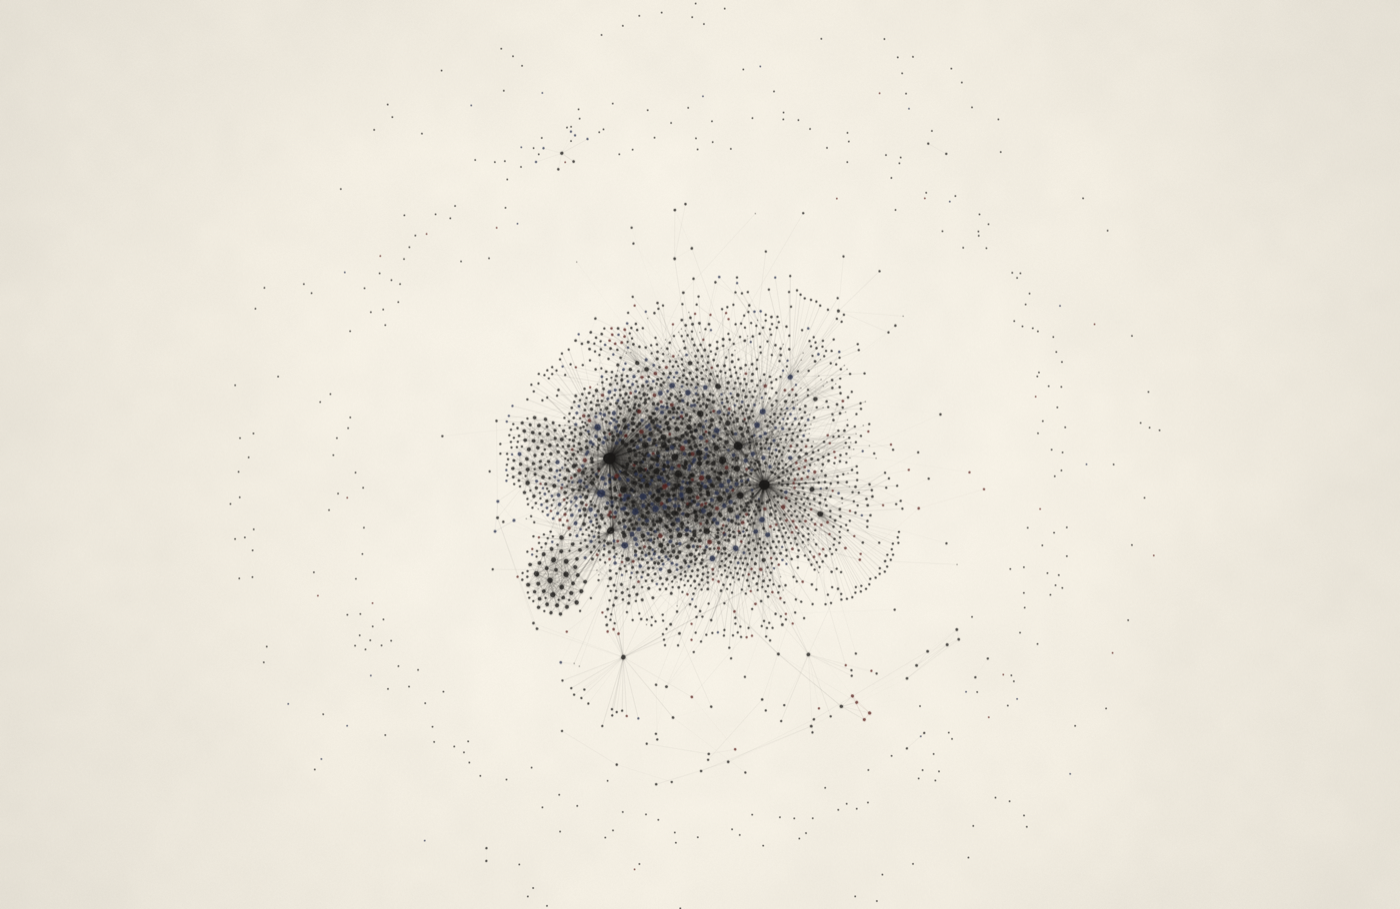
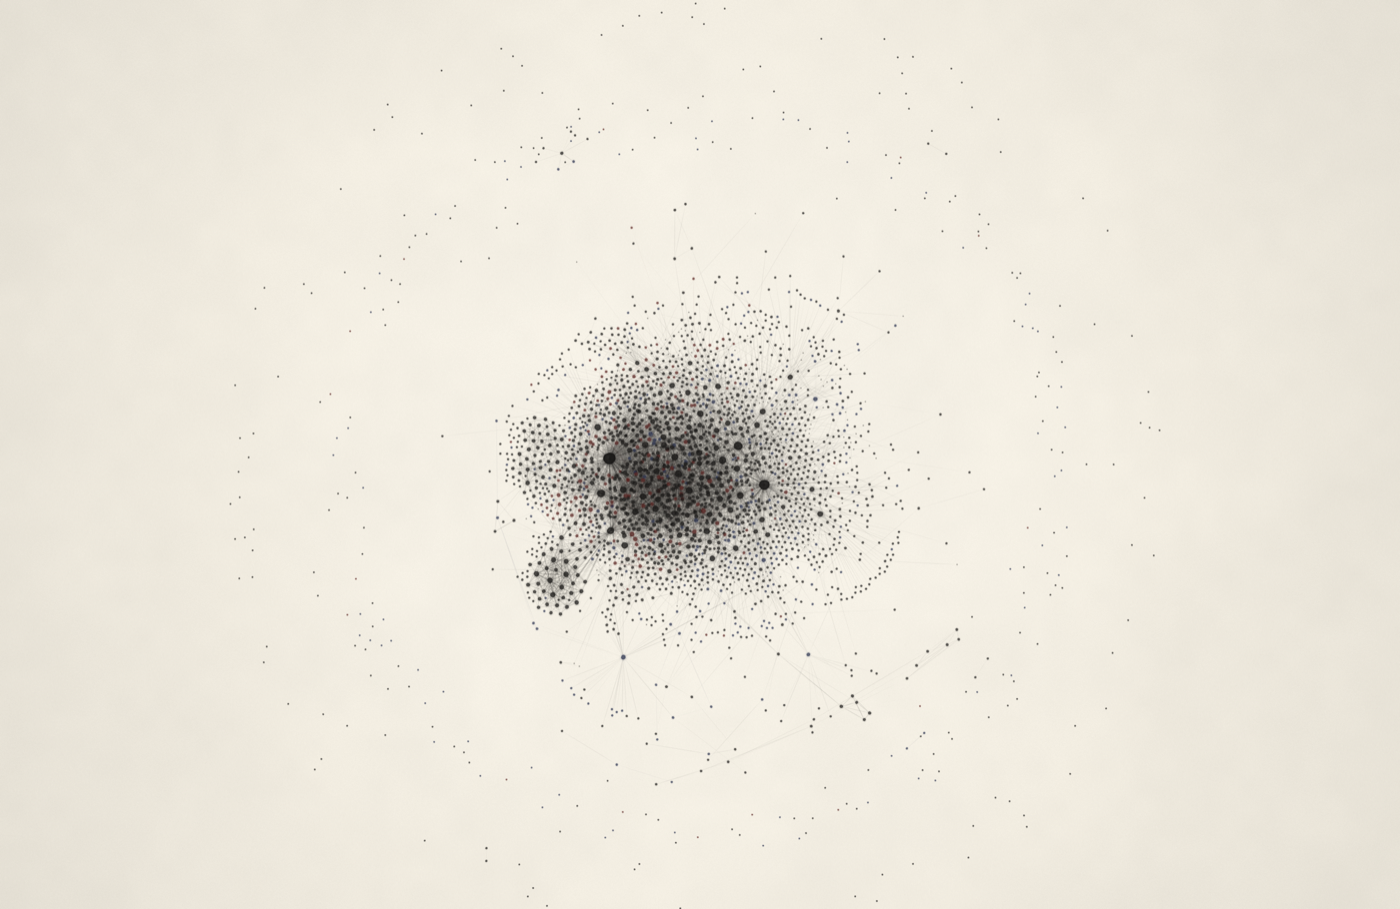
feat(render): Ink & Paper pen strokes, lighter hub spokes, ranked inks
- Links are pen strokes (new ink_edge_vs/ink_edge_fs pipeline, SceneData.ink_edges):
  thin at the ends, swelling to full width at a per-link point near the middle.
- Link weight follows the weaker endpoint, so spokes from hubs to single notes stay
  fine and hubs no longer print as dark sunbursts in a dense core.
- Colour inks go to the 2nd-5th biggest tags (>= 3 notes), alternating indigo and
  oxblood; the biggest tag and everything else print black.

Changed region(s): [[0.3993, 0.4004, 0.5836, 0.6469]]

diff --git a/crates/render/src/theme/ink_paper.rs b/crates/render/src/theme/ink_paper.rs
@@ -3,6 +3,8 @@
 //! hubs are bolder. Tags tint the ink with at most three muted inks. No glow and no
 //! motion: everything is drawn once into the cached scene.
 
+use std::collections::HashMap;
+
 use vw_core::config::Config;
 use vw_core::layout::LayoutGraph;
 
@@ -22,13 +24,28 @@ fn hash(bytes: impl IntoIterator<Item = u8>) -> u32 {
     bytes.into_iter().fold(2_166_136_261u32, |h, b| (h ^ u32::from(b)).wrapping_mul(16_777_619))
 }
 
-/// The ink for a tag. Most of the plate stays black; the coloured inks are accents.
-fn ink(tag: Option<&str>) -> [f32; 3] {
-    let Some(tag) = tag else { return INKS[0] };
-    match hash(tag.bytes()) % 5 {
-        1 => INKS[1],
-        2 => INKS[2],
-        _ => INKS[0],
+/// Inks by tag. The plate stays mostly black: only a few of the biggest tags print
+/// in a colour ink, and never the very biggest, which carries the black.
+struct Inks<'a> {
+    coloured: HashMap<&'a str, [f32; 3]>,
+}
+
+impl<'a> Inks<'a> {
+    /// Tags ranked 2nd to 5th by note count (with at least 3 notes) get indigo and
+    /// oxblood in turn.
+    fn new(tags: impl IntoIterator<Item = &'a str>) -> Self {
+        let mut count: HashMap<&str, usize> = HashMap::new();
+        for t in tags {
+            *count.entry(t).or_default() += 1;
+        }
+        let mut ranked: Vec<(&str, usize)> = count.into_iter().filter(|&(_, c)| c >= 3).collect();
+        ranked.sort_by(|a, b| b.1.cmp(&a.1).then(a.0.cmp(b.0)));
+        let coloured = ranked.iter().skip(1).take(4).enumerate().map(|(k, &(t, _))| (t, INKS[1 + k % 2])).collect();
+        Inks { coloured }
+    }
+
+    fn get(&self, tag: Option<&str>) -> [f32; 3] {
+        tag.and_then(|t| self.coloured.get(t).copied()).unwrap_or(INKS[0])
     }
 }
 
@@ -76,6 +93,7 @@ pub(super) fn build(
     let imp = |i: usize| look.node_importance.get(i).copied().unwrap_or(0.0);
     let visible = |i: usize| look.node_color.get(i).is_none_or(|c| c[3] > 0.0);
     let tag = |i: usize| graph.tag[i].as_deref();
+    let inks = Inks::new((0..n).filter(|&i| !graph.ghost[i]).filter_map(tag));
     let mut data = SceneData::default();
 
     // Dense vaults print with a lighter hand, or the core turns into a blot.
@@ -90,15 +108,18 @@ pub(super) fn build(
         if look.edge_color.get(k).is_some_and(|c| c[3] <= 0.0) {
             continue;
         }
-        let i = imp(s).max(imp(t));
+        // Weight follows the weaker end: spokes from a hub out to single notes stay
+        // fine, so hubs don't print as dark sunbursts; links between two
+        // well-connected notes are the bold strokes.
+        let (lo, hi) = (imp(s).min(imp(t)).sqrt(), imp(s).max(imp(t)).sqrt());
         let j = jitter(s, t);
         // Same tag: that tag's ink. Across tags: black.
-        let [r, g, b] = if tag(s).is_some() && tag(s) == tag(t) { ink(tag(s)) } else { INKS[0] };
-        data.edges.push(EdgeInstance {
+        let [r, g, b] = if tag(s).is_some() && tag(s) == tag(t) { inks.get(tag(s)) } else { INKS[0] };
+        data.ink_edges.push(EdgeInstance {
             a: screen[s],
             b: screen[t],
-            color: [r, g, b, (0.16 + i.sqrt() * 0.34) * density * (0.75 + j * 0.5)],
-            width: (0.4 + i.sqrt() * 0.9) * (0.7 + j * 0.6),
+            color: [r, g, b, (0.15 + lo * 0.55 + hi * 0.08) * density * (0.75 + j * 0.5)],
+            width: (0.5 + lo * 1.4 + hi * 0.3) * (0.7 + j * 0.6),
         });
     }
 
@@ -107,7 +128,7 @@ pub(super) fn build(
     order.sort_by(|&a, &b| imp(a).total_cmp(&imp(b)));
     for i in order {
         let p = imp(i);
-        let [r, g, b] = ink(tag(i));
+        let [r, g, b] = inks.get(tag(i));
         if graph.ghost[i] {
             // Unresolved links: a faint pinprick, no bleed.
             data.nodes.push(NodeInstance { center: screen[i], radius: 0.8, color: [r, g, b, 0.35] });
@@ -151,10 +172,19 @@ mod tests {
     }
 
     #[test]
-    fn inks_are_few_and_untagged_is_black() {
-        assert_eq!(ink(None), INKS[0]);
-        let used: std::collections::HashSet<[u32; 3]> =
-            (0..200).map(|i| ink(Some(&format!("tag{i}"))).map(f32::to_bits)).collect();
-        assert!(used.len() <= INKS.len());
+    fn colour_inks_go_to_a_few_big_tags() {
+        let mut tags = Vec::new();
+        for (k, name) in ["a", "b", "c", "d", "e", "f", "g"].iter().enumerate() {
+            tags.extend(std::iter::repeat_n(*name, 20 - k));
+        }
+        tags.push("tiny");
+        let inks = Inks::new(tags);
+        assert_eq!(inks.get(None), INKS[0]);
+        assert_eq!(inks.get(Some("a")), INKS[0], "the biggest tag stays black");
+        assert_eq!(inks.get(Some("b")), INKS[1]);
+        assert_eq!(inks.get(Some("c")), INKS[2]);
+        assert_eq!(inks.get(Some("e")), INKS[2]);
+        assert_eq!(inks.get(Some("f")), INKS[0]);
+        assert_eq!(inks.get(Some("tiny")), INKS[0]);
     }
 }

diff --git a/crates/render/src/lib.rs b/crates/render/src/lib.rs
@@ -177,6 +177,7 @@ struct Pipelines {
     nodes: wgpu::RenderPipeline,
     stars: wgpu::RenderPipeline,
     inks: wgpu::RenderPipeline,
+    ink_edges: wgpu::RenderPipeline,
     glow: wgpu::RenderPipeline,
     blur: wgpu::RenderPipeline,
     composite: wgpu::RenderPipeline,
@@ -244,13 +245,15 @@ impl Pipelines {
             alpha: wgpu::BlendComponent { src_factor: wgpu::BlendFactor::One, dst_factor: wgpu::BlendFactor::One, operation: wgpu::BlendOperation::Add },
         });
         let node = Some(node_layout);
+        let edge = Some(edge_layout);
         Pipelines {
             bg: make(&scene_mod, &scene_layout, "bg_vs", "bg_fs", &[], SCENE_FORMAT, None),
             halos: make(&scene_mod, &scene_layout, "node_vs", "halo_fs", std::slice::from_ref(&node), SCENE_FORMAT, alpha),
-            edges: make(&scene_mod, &scene_layout, "edge_vs", "edge_fs", &[Some(edge_layout)], SCENE_FORMAT, alpha),
+            edges: make(&scene_mod, &scene_layout, "edge_vs", "edge_fs", std::slice::from_ref(&edge), SCENE_FORMAT, alpha),
             nodes: make(&scene_mod, &scene_layout, "node_vs", "node_fs", std::slice::from_ref(&node), SCENE_FORMAT, alpha),
             stars: make(&scene_mod, &scene_layout, "node_vs", "star_fs", std::slice::from_ref(&node), SCENE_FORMAT, alpha),
             inks: make(&scene_mod, &scene_layout, "ink_vs", "ink_fs", std::slice::from_ref(&node), SCENE_FORMAT, alpha),
+            ink_edges: make(&scene_mod, &scene_layout, "ink_edge_vs", "ink_edge_fs", std::slice::from_ref(&edge), SCENE_FORMAT, alpha),
             glow: make(&scene_mod, &scene_layout, "node_vs", "glow_fs", std::slice::from_ref(&node), GLOW_FORMAT, additive),
             blur: make(&post_mod, &blur_layout, "full_vs", "blur_fs", &[], GLOW_FORMAT, None),
             composite: make(&post_mod, &composite_layout, "full_vs", "composite_fs", &[], out_format, None),
@@ -308,6 +311,7 @@ pub struct WallpaperRenderer {
     node_buf: Option<wgpu::Buffer>,
     star_buf: Option<wgpu::Buffer>,
     ink_buf: Option<wgpu::Buffer>,
+    ink_edge_buf: Option<wgpu::Buffer>,
     glow_buf: Option<wgpu::Buffer>,
     has_glow: bool,
 }
@@ -351,6 +355,7 @@ impl WallpaperRenderer {
             node_buf: None,
             star_buf: None,
             ink_buf: None,
+            ink_edge_buf: None,
             glow_buf: None,
             has_glow: false,
         }
@@ -416,6 +421,7 @@ impl WallpaperRenderer {
         let nodes = instance_buffer(gpu, &mut self.node_buf, &data.nodes, "nodes");
         let stars = instance_buffer(gpu, &mut self.star_buf, &data.stars, "stars");
         let inks = instance_buffer(gpu, &mut self.ink_buf, &data.inks, "inks");
+        let ink_edges = instance_buffer(gpu, &mut self.ink_edge_buf, &data.ink_edges, "ink edges");
         let glows = instance_buffer(gpu, &mut self.glow_buf, &data.glow, "glow");
         self.has_glow = glows > 0 && style.glow > 0.0;
         self.text.prepare(gpu, &data.text, size, scale);
@@ -443,6 +449,7 @@ impl WallpaperRenderer {
             pass.draw(0..3, 0..1);
             draw_instances(&mut pass, &p.halos, &self.halo_buf, halos);
             draw_instances(&mut pass, &p.edges, &self.edge_buf, edges);
+            draw_instances(&mut pass, &p.ink_edges, &self.ink_edge_buf, ink_edges);
             draw_instances(&mut pass, &p.nodes, &self.node_buf, nodes);
             draw_instances(&mut pass, &p.stars, &self.star_buf, stars);
             draw_instances(&mut pass, &p.inks, &self.ink_buf, inks);

diff --git a/crates/render/src/scene.rs b/crates/render/src/scene.rs
@@ -193,6 +193,8 @@ pub struct SceneData {
     /// Ink dots that bleed into the paper (Ink & Paper). `radius` is the bleed's
     /// outer reach; the solid dot is [`INK_CORE`] of it.
     pub inks: Vec<NodeInstance>,
+    /// Pen strokes that swell in the middle and thin toward their ends (Ink & Paper).
+    pub ink_edges: Vec<EdgeInstance>,
     pub text: Vec<TextItem>,
 }
 
